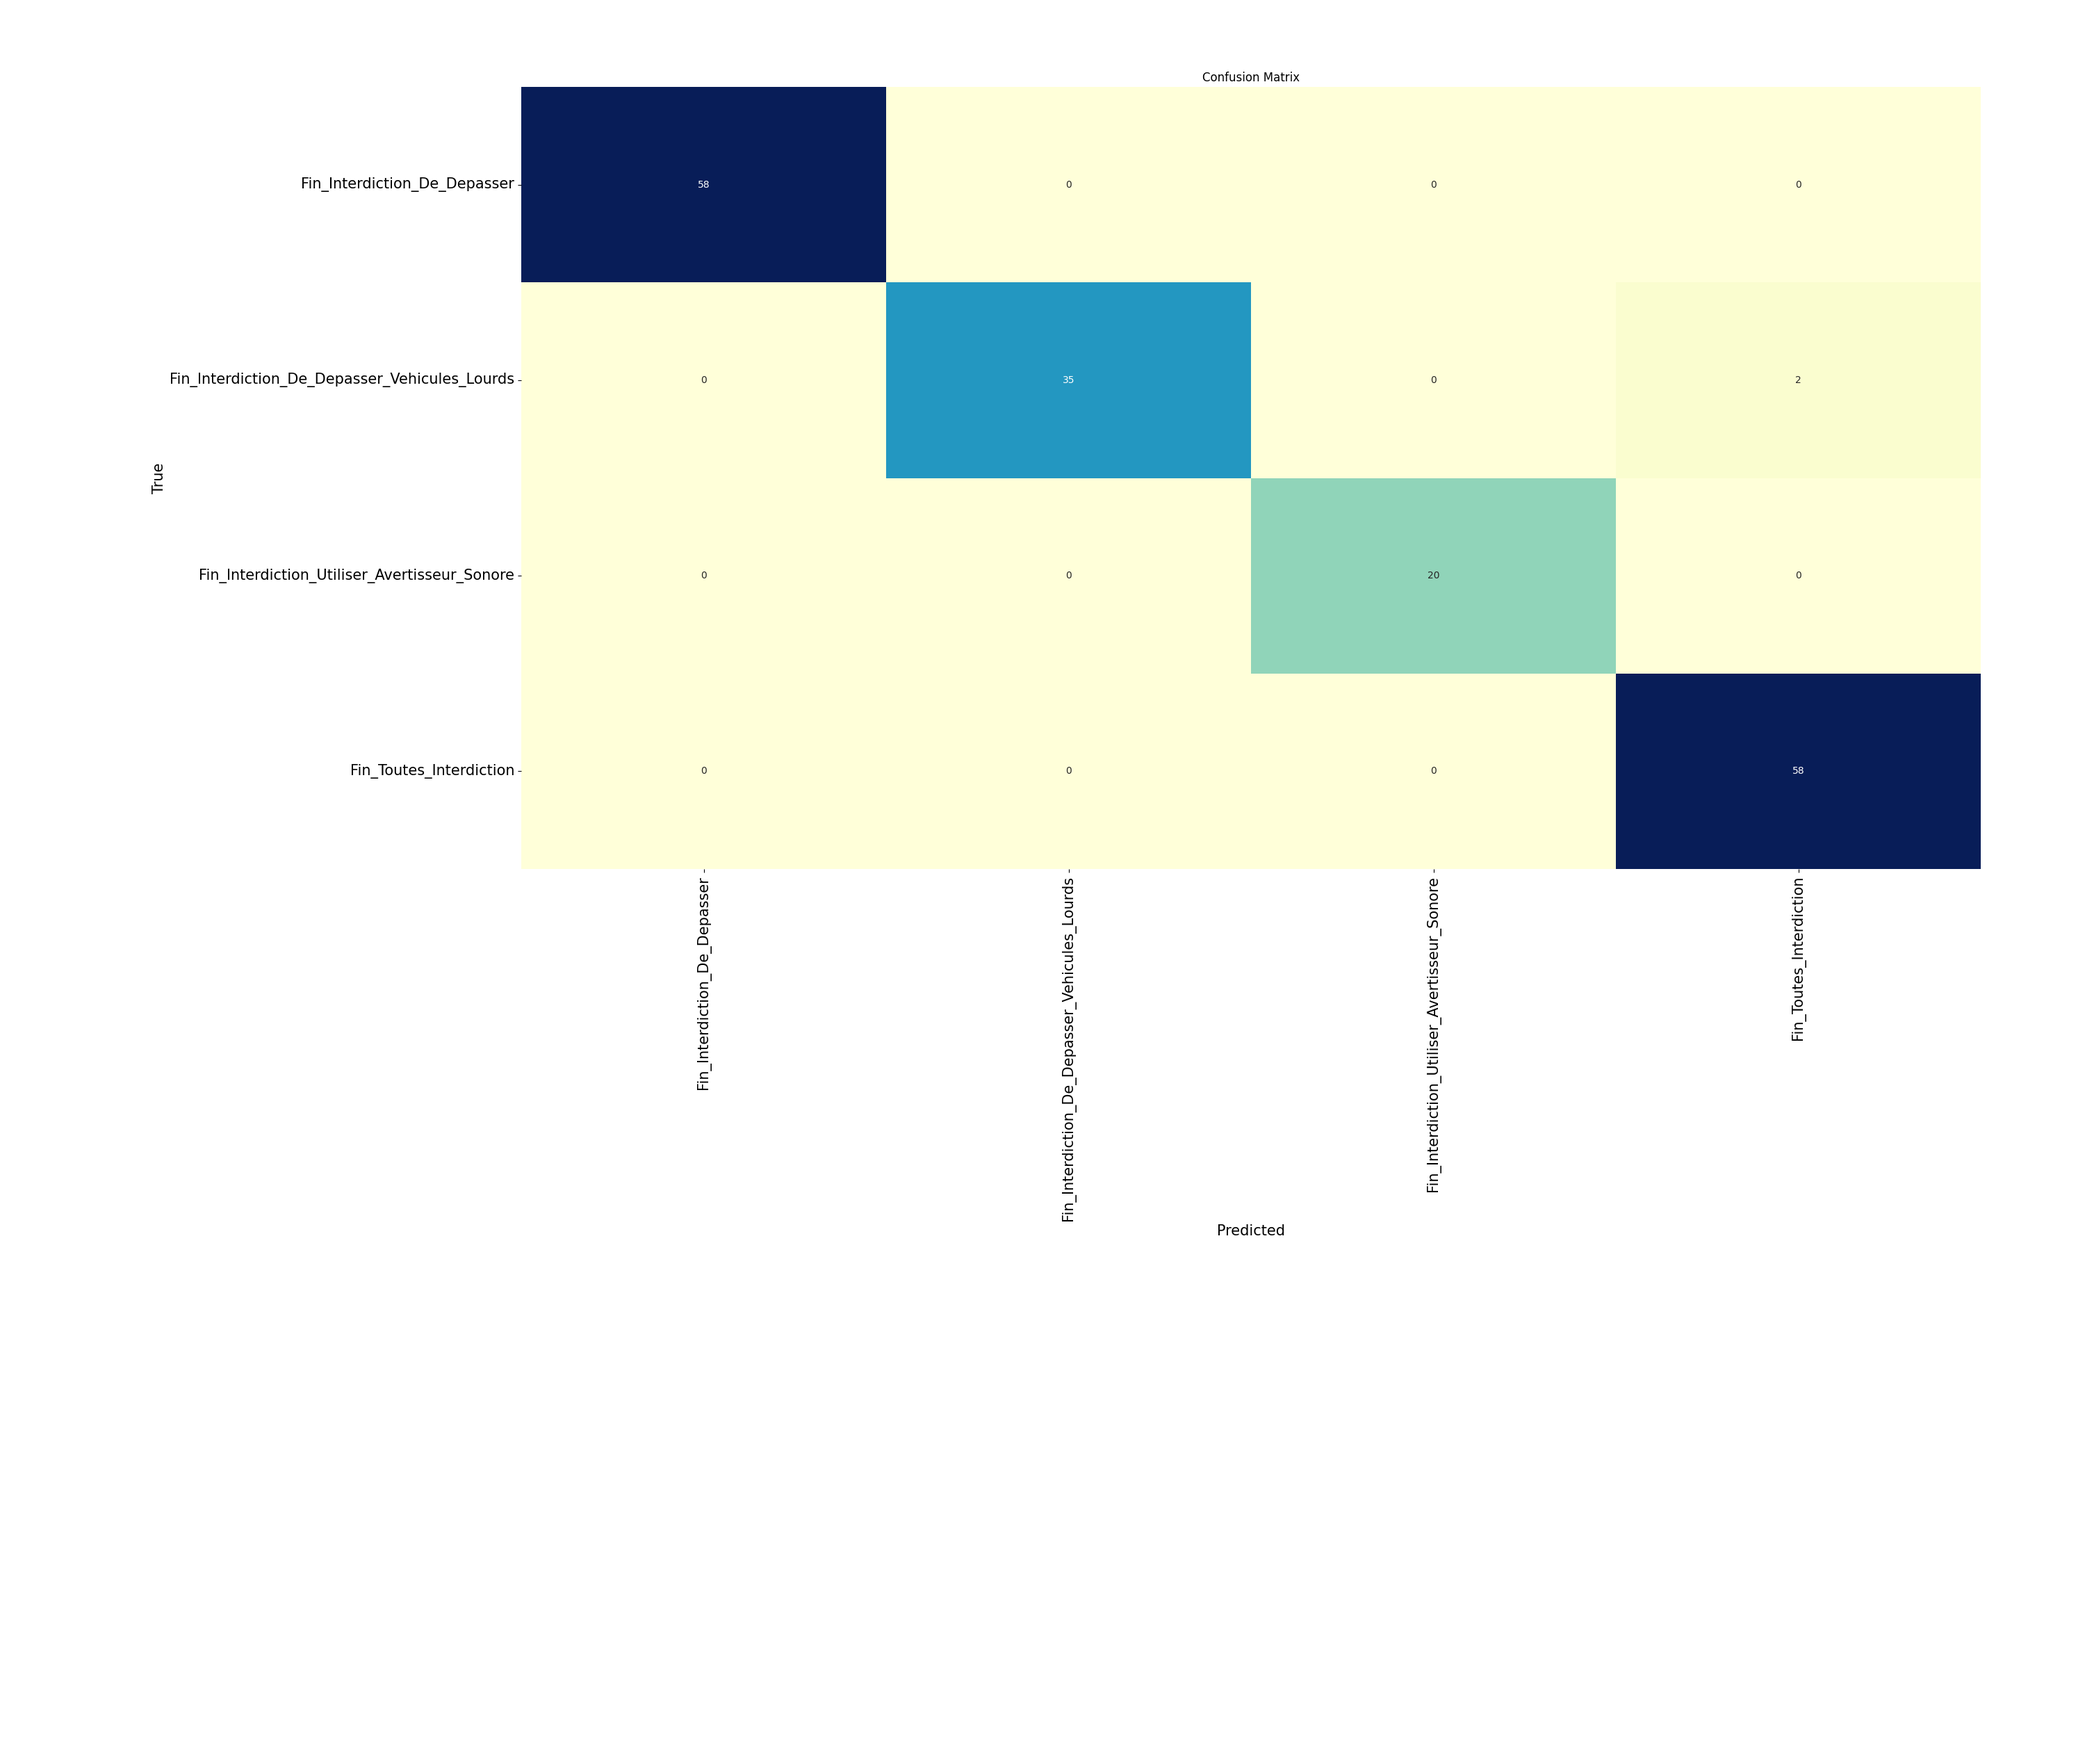
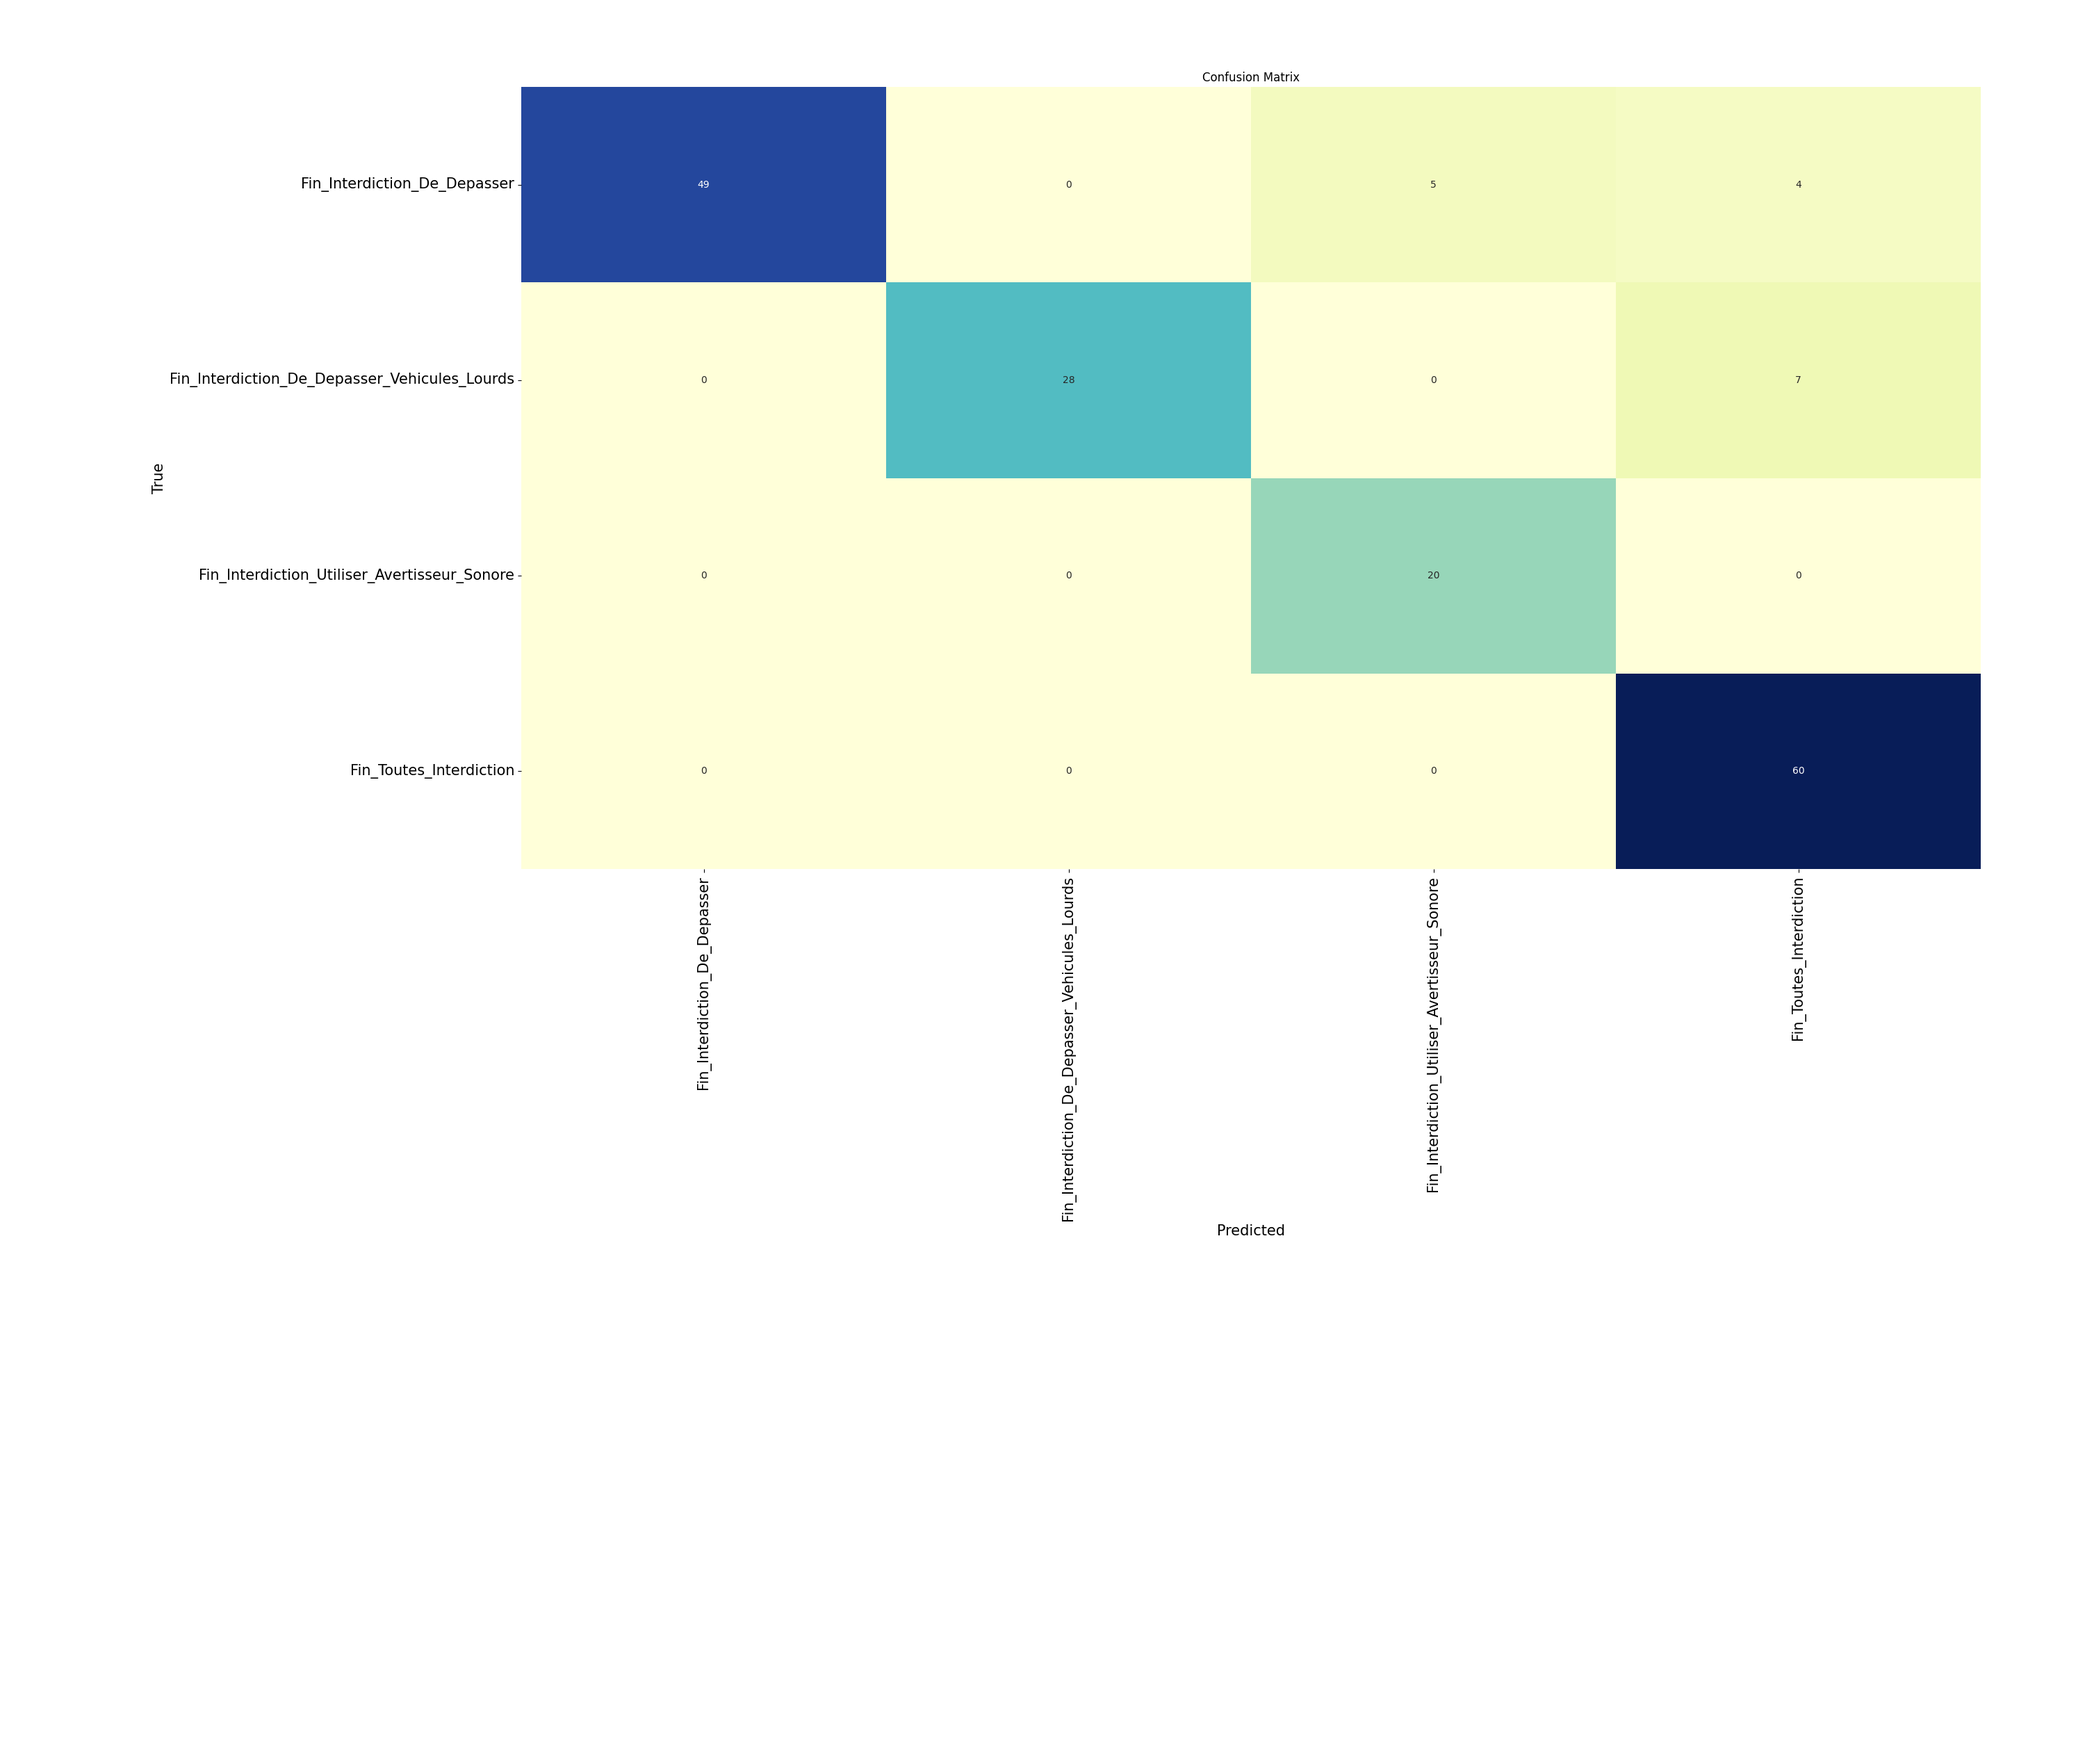
Ajout de Rotmax et prob Vertical Flip

Changed region(s): [[0.248, 0.0312, 0.961, 0.2808]]

diff --git a/Commun/Modules/Train.py b/Commun/Modules/Train.py
@@ -5,7 +5,6 @@ import torch.optim as optim
 import torchvision
 import torchvision.transforms as transforms
 import numpy as np
-from Model import *
 from Preprocessing import *
 from tqdm import tqdm
 from tqdm.notebook import tqdm as tqdm_notebook
@@ -298,7 +297,7 @@ def plot_accuracy_per_batch(Train_Accuracy_Per_Batch, Test_Accuracy_Per_Batch,fi
 
 
 def compute_confusion_matrix(Labels,Predicted):
-    print(f"Nb True classes: {len(np.unique(Labels))}, Nb Predicted classes: {len(np.unique(Predicted))}")
+    # print(f"Nb True classes: {len(np.unique(Labels))}, Nb Predicted classes: {len(np.unique(Predicted))}")
     Confusing_Matrix = confusion_matrix(Labels, Predicted)
     return Confusing_Matrix
 

diff --git a/Commun/Commun_Ayoub/Modules/Preprocessing.py b/Commun/Commun_Ayoub/Modules/Preprocessing.py
@@ -602,11 +602,11 @@ def load_transforms(path):
 
 
 
-def create_transofrm_augmentation_labels(p=0.6):
+def create_transofrm_augmentation_labels(p=0.6,rotmax=45,prob_vertical_flip = 0.2):
     # p est la probabilité d'appliquer la transformation
     List_Transforms = [
-        RandomVerticalFlip(0.6),
-        RandomRotation(45),
+        RandomVerticalFlip(prob_vertical_flip),
+        RandomRotation(rotmax),
         RandomPerspective(),
         ColorJitter(brightness=0.1, contrast=0.1, saturation=0.1, hue=0.1),
         RandomAffine(degrees=30),

diff --git a/Commun/Modules/Preprocessing.py b/Commun/Modules/Preprocessing.py
@@ -602,11 +602,11 @@ def load_transforms(path):
 
 
 
-def create_transofrm_augmentation_labels(p=0.6):
+def create_transofrm_augmentation_labels(p=0.6,rotmax=45,prob_vertical_flip = 0.2):
     # p est la probabilité d'appliquer la transformation
     List_Transforms = [
-        RandomVerticalFlip(0.6),
-        RandomRotation(45),
+        RandomVerticalFlip(prob_vertical_flip),
+        RandomRotation(rotmax),
         RandomPerspective(),
         ColorJitter(brightness=0.1, contrast=0.1, saturation=0.1, hue=0.1),
         RandomAffine(degrees=30),
